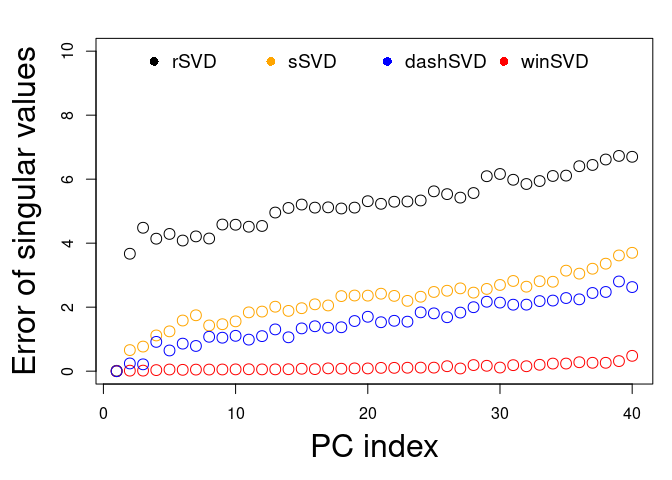
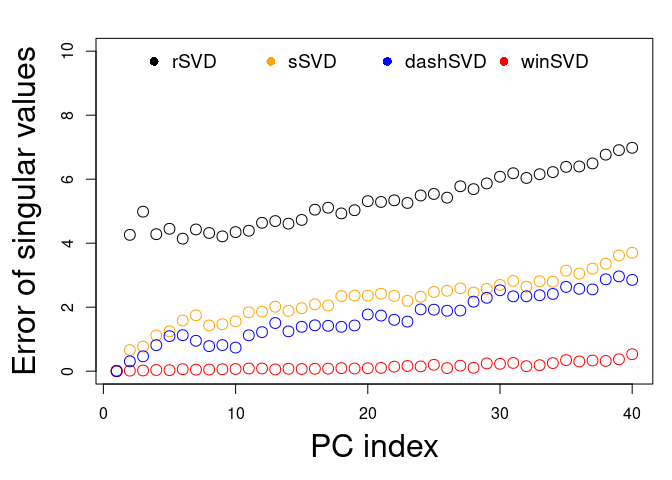
cleanup

Changed region(s): [[0.1875, 0.625, 0.9688, 0.7812], [0.1875, 0.2812, 0.9688, 0.5312], [0.5938, 0.5625, 0.9688, 0.6875]]

diff --git a/README.md b/README.md
@@ -36,9 +36,9 @@ mat <- matrix(rnorm(100*5000), 5000, 100)
 res <- pcaone(mat, k = 10)
 str(res)
 #> List of 3
-#>  $ d: num [1:10] 81 80.1 79.5 79.1 78.6 ...
-#>  $ u: num [1:5000, 1:10] -0.00402 -0.00015 -0.00481 0.01755 0.00365 ...
-#>  $ v: num [1:100, 1:10] -0.1459 0.1601 0.0482 -0.0908 0.042 ...
+#>  $ d: num [1:10] 80.3 79.7 79.6 79.3 78.7 ...
+#>  $ u: num [1:5000, 1:10] 0.00914 0.01157 0.01647 -0.01457 0.00449 ...
+#>  $ v: num [1:100, 1:10] 0.00383 0.07312 -0.02572 0.05766 0.10849 ...
 #>  - attr(*, "class")= chr "pcaone"
 ```
 
@@ -58,19 +58,19 @@ A <- popgen - rowMeans(popgen) ## center
 k <- 40
 system.time(s0 <- RSpectra::svds(A, k = k) )
 #>    user  system elapsed 
-#>  28.024  21.107   2.399
+#>  29.306  12.016   1.804
 system.time(s1 <- rsvd::rsvd(A, k = k, q = 4))  ## the number of epochs is two times of power iters, 4*2=8
 #>    user  system elapsed 
-#>   9.027  20.213   1.881
+#>  10.440  28.235   2.752
 system.time(s2 <- pcaone(A, k = k, method = "ssvd", p = 8))
 #>    user  system elapsed 
-#>   8.446   8.953   0.767
+#>   8.265   9.720   0.785
 system.time(s3 <- pcaone(A, k = k, method = "winsvd", p = 7))
 #>    user  system elapsed 
-#>  10.177  10.926   1.024
+#>   9.882  11.067   1.036
 system.time(s4 <- pcaone(A, k = k, method = "dashsvd", p = 6)) ## the number of epochs is 2 + power iters
 #>    user  system elapsed 
-#>  10.665  14.759   2.085
+#>   6.185   5.101   0.521
 
 par(mar = c(5, 5, 2, 1))
 plot(s0$d-s1$d, ylim = c(0, 10), xlab = "PC index", ylab = "Error of singular values", cex = 1.5, cex.lab = 2)
@@ -88,13 +88,13 @@ to reach the accuracy of `winSVD`.
 ``` r
 system.time(s1 <- rsvd::rsvd(A, k = k, q = 20))  ## the number of epochs is 4*20=40
 #>    user  system elapsed 
-#>  36.119  69.747   5.707
+#>  34.971  57.354   4.448
 system.time(s2 <- pcaone(A, k = k, method = "ssvd", p = 20))
 #>    user  system elapsed 
-#>  17.537  13.900   1.363
+#>  17.254  21.050   2.406
 system.time(s4 <- pcaone(A, k = k, method = "dashsvd", p = 18))
 #>    user  system elapsed 
-#>  29.395  52.729   5.321
+#>  14.644  13.760   1.446
 
 par(mar = c(5, 5, 2, 1))
 plot(s0$d-s1$d, ylim = c(0, 2), xlab = "PC index", ylab = "Error of singular values", cex = 1.5, cex.lab = 2)
@@ -121,12 +121,12 @@ timing <- microbenchmark(
   times=10)
 print(timing, unit='s')
 #> Unit: seconds
-#>            expr       min       lq     mean   median       uq      max neval
-#>        RSpectra 1.4525233 1.843104 2.050252 1.873966 2.306075 2.773527    10
-#>            rSVD 4.5324825 4.658543 5.844413 5.714663 7.107667 7.930224    10
-#>   pcaone.winsvd 1.0078065 1.079937 1.346716 1.217142 1.336223 2.296519    10
-#>     pcaone.ssvd 0.9257167 1.059345 1.768647 1.867721 2.438595 2.569187    10
-#>  pcaone.dashsvd 4.3526371 4.644177 4.820574 4.862795 5.048073 5.097065    10
+#>            expr       min        lq     mean    median       uq      max neval
+#>        RSpectra 1.6214804 1.8045701 2.153150 2.1708929 2.378451 2.792410    10
+#>            rSVD 3.9832089 4.4928445 5.597502 5.7184078 6.678621 7.167970    10
+#>   pcaone.winsvd 0.8413689 1.2609646 1.542842 1.4258020 1.786600 2.211722    10
+#>     pcaone.ssvd 1.0405265 1.1062428 1.507835 1.2116182 1.897299 2.432535    10
+#>  pcaone.dashsvd 0.7261568 0.7517289 1.275557 0.9464012 1.349643 2.672243    10
 ```
 
 ## References
